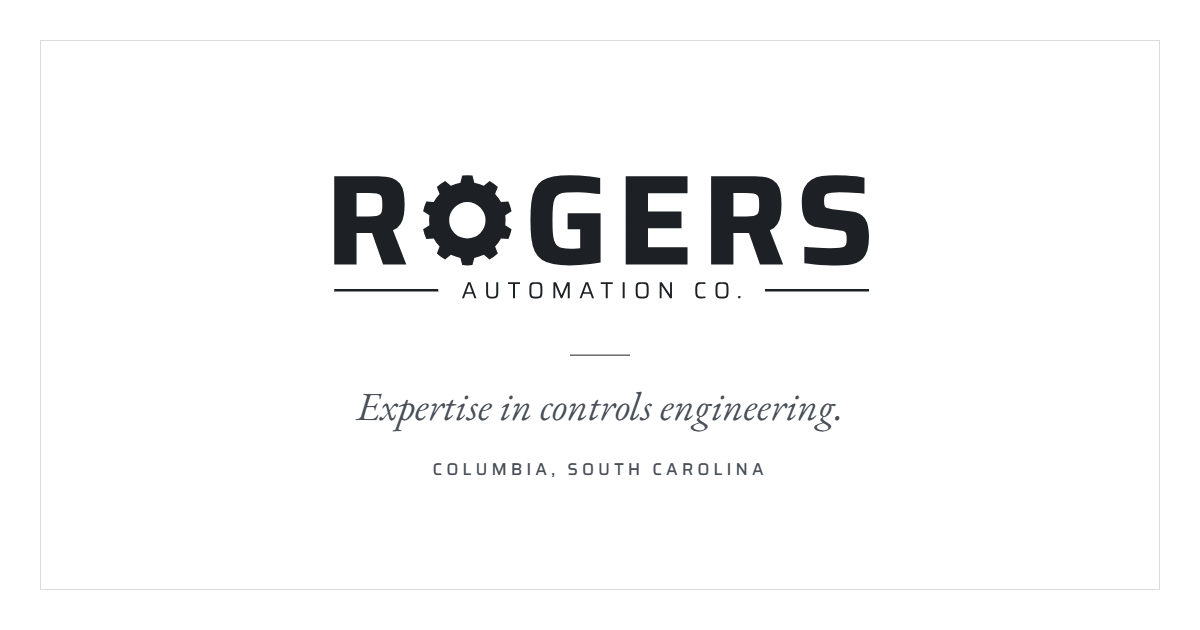
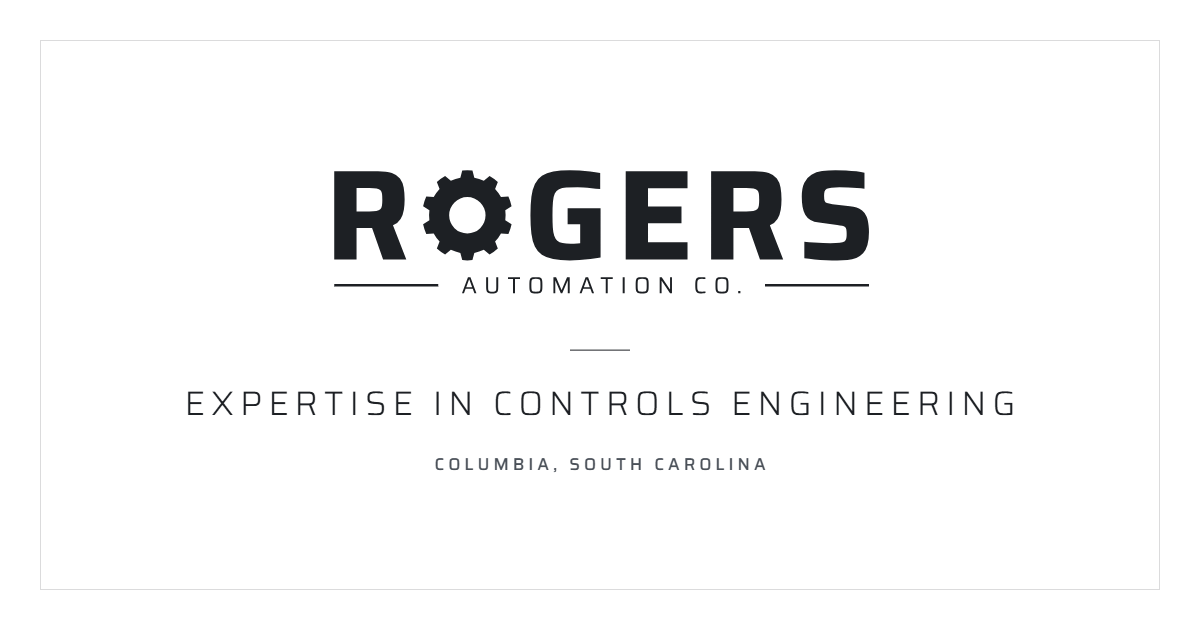
Use Saira throughout with tracked capitals; drop serif

diff --git a/styles.css b/styles.css
@@ -1,20 +1,6 @@
 @font-face {
-  font-family: "EB Garamond";
-  font-weight: 400 600;
-  font-style: normal;
-  font-display: swap;
-  src: url("fonts/eb-garamond-latin.woff2") format("woff2");
-}
-@font-face {
-  font-family: "EB Garamond";
-  font-weight: 400;
-  font-style: italic;
-  font-display: swap;
-  src: url("fonts/eb-garamond-italic-latin.woff2") format("woff2");
-}
-@font-face {
   font-family: "Saira";
-  font-weight: 400 700;
+  font-weight: 100 900;
   font-style: normal;
   font-display: swap;
   src: url("fonts/saira-latin.woff2") format("woff2");
@@ -27,8 +13,6 @@
   --muted: #4B5159;
   --steel: #3F5F7F;
   --rule: rgba(29, 32, 36, .16);
-  --serif: "EB Garamond", Garamond, "Times New Roman", serif;
-  --sans: "Saira", "Segoe UI", system-ui, sans-serif;
   --max: 1080px;
 }
 
@@ -38,15 +22,16 @@ html { scroll-behavior: smooth; }
 
 body {
   margin: 0;
-  font-family: var(--serif);
-  font-size: 1.25rem;
-  line-height: 1.6;
+  font-family: "Saira", "Segoe UI", system-ui, sans-serif;
+  font-weight: 400;
+  font-size: 1.0625rem;
+  line-height: 1.75;
   color: var(--ink);
   background: var(--white);
   -webkit-font-smoothing: antialiased;
 }
 
-h1, h2, h3, p, ol { margin: 0; }
+h1, h2, h3, p, ul { margin: 0; }
 a { color: inherit; }
 img { max-width: 100%; height: auto; display: block; }
 :focus-visible { outline: 2px solid var(--steel); outline-offset: 4px; }
@@ -55,18 +40,18 @@ img { max-width: 100%; height: auto; display: block; }
 
 .skip {
   position: absolute; left: 1rem; top: -4rem; z-index: 10;
-  background: var(--ink); color: var(--white); padding: .5rem 1rem;
-  font-family: var(--sans); font-size: .9rem;
+  background: var(--ink); color: var(--white); padding: .5rem 1rem; font-size: .9rem;
 }
 .skip:focus { top: 1rem; }
 
-/* Small tracked capitals, set in the logo's typeface */
+/* Tracked capitals, echoing "AUTOMATION CO." in the logo */
+.caps, .masthead nav a, .label, .place, .practice li, .name, .footer p, .intro h1 {
+  text-transform: uppercase;
+}
 .masthead nav a, .label, .place, .footer p {
-  font-family: var(--sans);
   font-weight: 500;
   font-size: .75rem;
   letter-spacing: .24em;
-  text-transform: uppercase;
 }
 
 /* Masthead */
@@ -91,17 +76,17 @@ img { max-width: 100%; height: auto; display: block; }
 /* Introduction */
 .intro { padding: clamp(5rem, 12vw, 9rem) 0 clamp(5rem, 11vw, 8rem); text-align: center; }
 .intro h1 {
-  font-weight: 400;
-  font-size: clamp(2.5rem, 6.4vw, 4.6rem);
-  line-height: 1.08;
-  letter-spacing: -.01em;
-  text-wrap: balance;
+  font-weight: 300;
+  font-size: clamp(1.6rem, 4vw, 2.75rem);
+  line-height: 1.4;
+  letter-spacing: .16em;
+  margin-right: -.16em; /* offsets trailing tracking so the line stays centered */
 }
 .intro h1 span { display: inline-block; }
 .intro-copy {
-  font-style: italic;
+  font-weight: 300;
   color: var(--muted);
-  font-size: clamp(1.25rem, 2vw, 1.45rem);
+  font-size: clamp(1.1rem, 1.8vw, 1.25rem);
   max-width: 32rem;
   margin: 2rem auto 0;
 }
@@ -114,21 +99,25 @@ img { max-width: 100%; height: auto; display: block; }
 /* Sections: a label column and a content column */
 .row { border-top: 1px solid var(--rule); padding: clamp(4rem, 8vw, 6rem) 0; }
 .grid { display: grid; grid-template-columns: 13rem minmax(0, 1fr); gap: 2rem 3rem; }
-.label { color: var(--steel); padding-top: .55rem; }
+.label { color: var(--steel); padding-top: .3rem; }
+
+.prose { max-width: 38rem; }
+.prose p { font-weight: 300; font-size: 1.125rem; color: var(--muted); }
+.prose p + p { margin-top: 1.1rem; }
 
 .practice { list-style: none; padding: 0; margin: 2.25rem 0 0; border-top: 1px solid var(--rule); }
 .practice li {
-  padding: 1.05rem 0; border-bottom: 1px solid var(--rule);
-  font-size: 1.5rem; line-height: 1.3; color: var(--ink);
+  padding: 1.1rem 0; border-bottom: 1px solid var(--rule);
+  font-weight: 500; font-size: .9rem; letter-spacing: .18em; line-height: 1.5; color: var(--ink);
 }
 
-.prose { max-width: 38rem; }
-.prose p + p { margin-top: 1.1rem; }
-.name { font-size: 1.65rem; font-weight: 500; line-height: 1.25; margin-bottom: 1.25rem; }
-.prose p:not(.name):not(.email) { color: var(--muted); }
+.prose .name {
+  font-weight: 500; font-size: 1.05rem; letter-spacing: .2em; color: var(--ink);
+  margin-bottom: 1.25rem;
+}
 
-.email { margin-top: 2rem !important; font-size: clamp(1.4rem, 3vw, 1.85rem); }
-.email a { text-decoration-thickness: 1px; text-underline-offset: 6px; overflow-wrap: anywhere; }
+.prose .email { margin-top: 2rem; font-weight: 400; font-size: clamp(1.15rem, 2.4vw, 1.4rem); letter-spacing: .04em; color: var(--ink); }
+.email a { text-decoration-thickness: 1px; text-underline-offset: 7px; overflow-wrap: anywhere; }
 .email a:hover { color: var(--steel); }
 
 /* Footer */
@@ -137,14 +126,14 @@ img { max-width: 100%; height: auto; display: block; }
 .footer p { font-size: .7rem; }
 
 @media (max-width: 720px) {
-  body { font-size: 1.15rem; }
   .wrap { padding: 0 1.25rem; }
   .masthead { padding-top: 2.5rem; }
   .logo img { width: 170px; }
   .masthead nav { margin-top: 2rem; }
   .masthead ul { gap: 1.75rem; }
   .masthead nav a { letter-spacing: .18em; font-size: .7rem; }
+  .intro h1 { letter-spacing: .12em; margin-right: -.12em; }
   .grid { grid-template-columns: 1fr; gap: 1.5rem; }
   .label { padding-top: 0; }
-  .practice li, .name { font-size: 1.3rem; }
+  .practice li { font-size: .82rem; letter-spacing: .14em; }
 }

diff --git a/index.html b/index.html
@@ -23,7 +23,7 @@
   <link rel="icon" href="favicon-16.png" sizes="16x16" type="image/png">
   <link rel="apple-touch-icon" href="apple-touch-icon.png">
 
-  <link rel="preload" href="fonts/eb-garamond-latin.woff2" as="font" type="font/woff2" crossorigin>
+  <link rel="preload" href="fonts/saira-latin.woff2" as="font" type="font/woff2" crossorigin>
   <link rel="stylesheet" href="styles.css">
 </head>
 <body>
@@ -47,7 +47,7 @@
   <main id="main">
     <section class="intro" id="top" aria-labelledby="intro-h">
       <div class="wrap">
-        <h1 id="intro-h"><span>Expertise in</span> <span>controls engineering.</span></h1>
+        <h1 id="intro-h"><span>Expertise in</span> <span>controls engineering</span></h1>
         <p class="intro-copy">An independent practice serving a select group of manufacturers and machine builders.</p>
         <p class="place">Columbia, South Carolina</p>
       </div>

diff --git a/README.md b/README.md
@@ -8,7 +8,7 @@ Static site for https://rogersautomation.co, served by GitHub Pages from the `ma
 | --- | --- |
 | `index.html` | All page content |
 | `styles.css` | All styling and colors (see `:root` at the top) |
-| `fonts/` | Self-hosted EB Garamond (headings and text) and Saira (small capitals labels), latin subset, woff2 |
+| `fonts/` | Self-hosted Saira (variable font, latin subset, woff2) |
 | `rogers-logo.svg`, `rogers-logo-white.svg` | Logo for light and dark backgrounds |
 | `rogers-gear-icon.svg`, `favicon-*.png`, `apple-touch-icon.png` | Favicons |
 | `og-image.png` | 1200x630 social share image |
